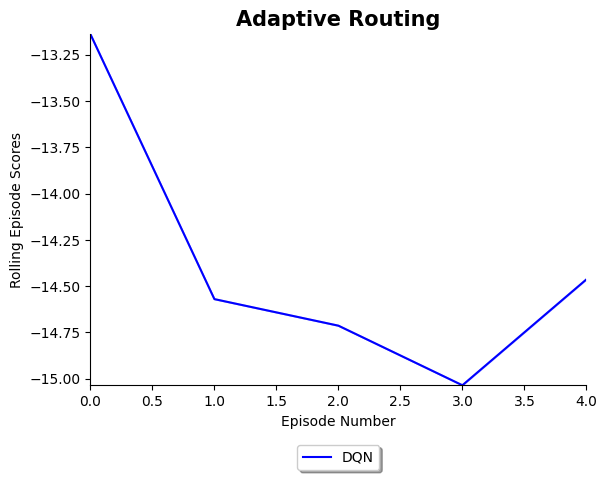
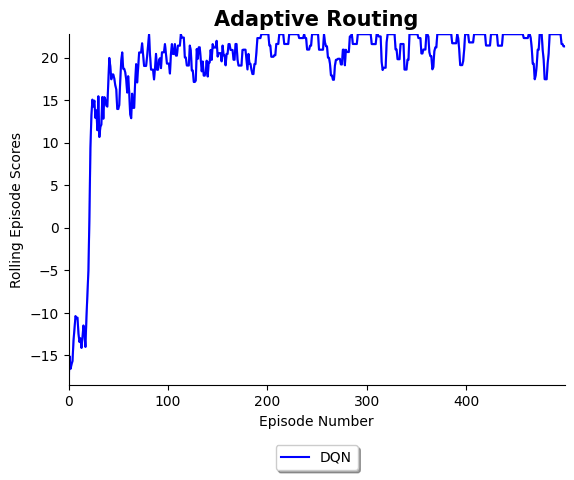
backup -> fix time-2-learn for agents

diff --git a/agents/DQN_agents/DQN_multi_agent.py b/agents/DQN_agents/DQN_multi_agent.py
@@ -21,36 +21,13 @@ class DQN(Base_Agent):
         super(DQN, self).reset_game()
         self.update_learning_rate(self.hyperparameters["learning_rate"])
 
-    def step(self):
-        """Runs a step within a game including a learning step if required"""
-        while not self.done:
-            self.actions = self.pick_action()
-            self.conduct_action(self.actions)
-
-            steps=len(self.environment.trans_vehicles_states)
-
-            if steps==0:
-                continue
-            
-            if self.right_amount_of_steps_taken():
-                for agent_id in self.agent_dic:
-                    if self.enough_experiences_to_learn_from(agent_id):
-                        for _ in range(self.hyperparameters["learning_iterations"]):
-                            self.learn(agent_id)
-            
-            self.save_experience()
-
-            # self.state = self.next_state #this is to set the state for the next iteration
-            self.global_step_number += steps
-        self.episode_number += 1
-
     def pick_action(self, states=None):
         actions=[]
         """Uses the local Q network and an epsilon greedy policy to pick an action"""
         # PyTorch only accepts mini-batches and not single observations so we have to use unsqueeze to add
         # a "fake" dimension to make it a mini-batch rather than a single observation
         if states is None: states = self.environment.trans_vehicles_states
-            
+                                                                                       # TODO: batchify, room for optimization. neede for big flows
         for state in states:
             if isinstance(state, np.int64) or isinstance(state, int): state = np.array([state])
             state = state.float().unsqueeze(0).to(self.device)
@@ -60,7 +37,7 @@ class DQN(Base_Agent):
             except:
                 breakpoint()
 
-            if len(state.shape) < 2: state = state.unsqueeze(0)            
+            # if len(state.shape) < 2: state = state.unsqueeze(0)      # potential BUG       
             q_network_local=self.agent_dic[agent_id]["NN"]
             q_network_local.eval() #puts network in evaluation mode
             with torch.no_grad():

diff --git a/agents/Base_Agent.py b/agents/Base_Agent.py
@@ -48,10 +48,6 @@ class Base_Agent(object):
         self.log_game_info()
         self.lanes_dic=config.environment.lanes_dic
 
-    def step(self):
-        """Takes a step in the game. This method must be overriden by any agent"""
-        raise ValueError("Step needs to be implemented by the agent")
-
     def get_environment_title(self):
         """Extracts name of environment from it"""
         try:
@@ -194,10 +190,8 @@ class Base_Agent(object):
 
         while self.episode_number < num_episodes:
             try:
-                if self.episode_number%1==0:
-                    breakpoint()
-                self.reset_game()
-                self.step()
+                self.run()
+                self.episode_number += 1
                 if save_and_print_results: self.save_and_print_result()
             except KeyboardInterrupt:
                 num_episodes=self.episode_number+1
@@ -209,6 +203,28 @@ class Base_Agent(object):
         if self.config.save_model: self.locally_save_policy()
         return self.game_full_episode_scores, self.rolling_results, time_taken
 
+    def run(self):
+        """Runs a step within a game including a learning step if required"""
+        self.reset_game()
+        while not self.done:
+            self.actions = self.pick_action()
+            self.conduct_action(self.actions)
+            self.save_experience()
+
+            steps=len(self.environment.trans_vehicles_states)
+
+            if steps==0:
+                continue
+            # TODD,BUG: right amount of steps are different for different agents
+            if self.right_amount_of_steps_taken():
+                for agent_id in self.agent_dic:
+                    if self.enough_experiences_to_learn_from(agent_id):
+                        for _ in range(self.hyperparameters["learning_iterations"]):
+                            self.learn(agent_id)
+            
+            self.global_step_number += steps
+
+    
     def conduct_action(self, actions):
         """Conducts an action in the environment"""
         self.mem_states,self.mem_actions,self.mem_next_states, self.mem_rewards, self.mem_done, self.done = self.environment.step(actions)

diff --git a/environments/Adaptive_Routing_Environment.py b/environments/Adaptive_Routing_Environment.py
@@ -109,7 +109,6 @@ class Adaptive_Routing_Environment(gym.Env):
 		eng_vehicles_dic=self.get_engine_vehicles_dic()
 		self.update_env_vehicles(eng_vehicles_dic)
 		# ---------------------------------------------
-		
 		for vc in eng_vehicles_dic:
 			if self.is_autonomus_off(vc) or not self.is_trans(vc):
 				continue
@@ -125,7 +124,8 @@ class Adaptive_Routing_Environment(gym.Env):
 
 			if self.manual_drive:
 				self.iteration+=1	
-	
+
+
 		return self.states,self.acts,self.next_states,self.rewds,self.dones,False
 
 	def set_route(self,VCs,ACTs):
@@ -220,9 +220,6 @@ class Adaptive_Routing_Environment(gym.Env):
 		state=torch.tensor(self.utils.reshape(state,vc), device=self.device, dtype=torch.float)
 		return state
 
-	def is_route_finished(self):
-		pass
-	
 	def get_reward(self,vc):
 		road=self.vehicles[vc]["memory2"]["road"]
 		next_road=self.vehicles[vc]["memory1"]["road"]
@@ -254,9 +251,9 @@ class Adaptive_Routing_Environment(gym.Env):
 		# reward= (Dist_1_D-Dist_2_D)*10
 
 		if Dist_1_D>Dist_2_D:
-				reward=0
+				reward=1
 		else:
-				reward=-1
+				reward=-1.5
 		
 		if self.Log:
 				print("moving reward: "+ str(reward))

diff --git a/results/Adaptive_Routing.py b/results/Adaptive_Routing.py
@@ -33,13 +33,13 @@ device = torch.device("cuda" if torch.cuda.is_available() else "cpu") #device is
 config = Config()
 config.seed = 1
 
-config.environment = Adaptive_Routing_Environment(dim=3,encode="one_hot",Num_Flows=1,skip_routing=[],Max_Sim_Time=600,device=device,Log=True)
+config.environment = Adaptive_Routing_Environment(dim=3,encode="one_hot",Num_Flows=1,skip_routing=[],Max_Sim_Time=600,device=device,Log=False)
 # breakpoint()
 # num_possible_states =config.environment.utils.get_state_diminsion()
 # embedding_dimensions = [[num_possible_states, 20]]
 # print("Num possible states ", num_possible_states)
 
-config.num_episodes_to_run = 5
+config.num_episodes_to_run = 500
 config.file_to_save_data_results = "Data_and_Graphs/Adaptive_Routing.pkl"
 config.file_to_save_results_graph = "Data_and_Graphs/Adaptive_Routing.png"
 config.show_solution_score = False
